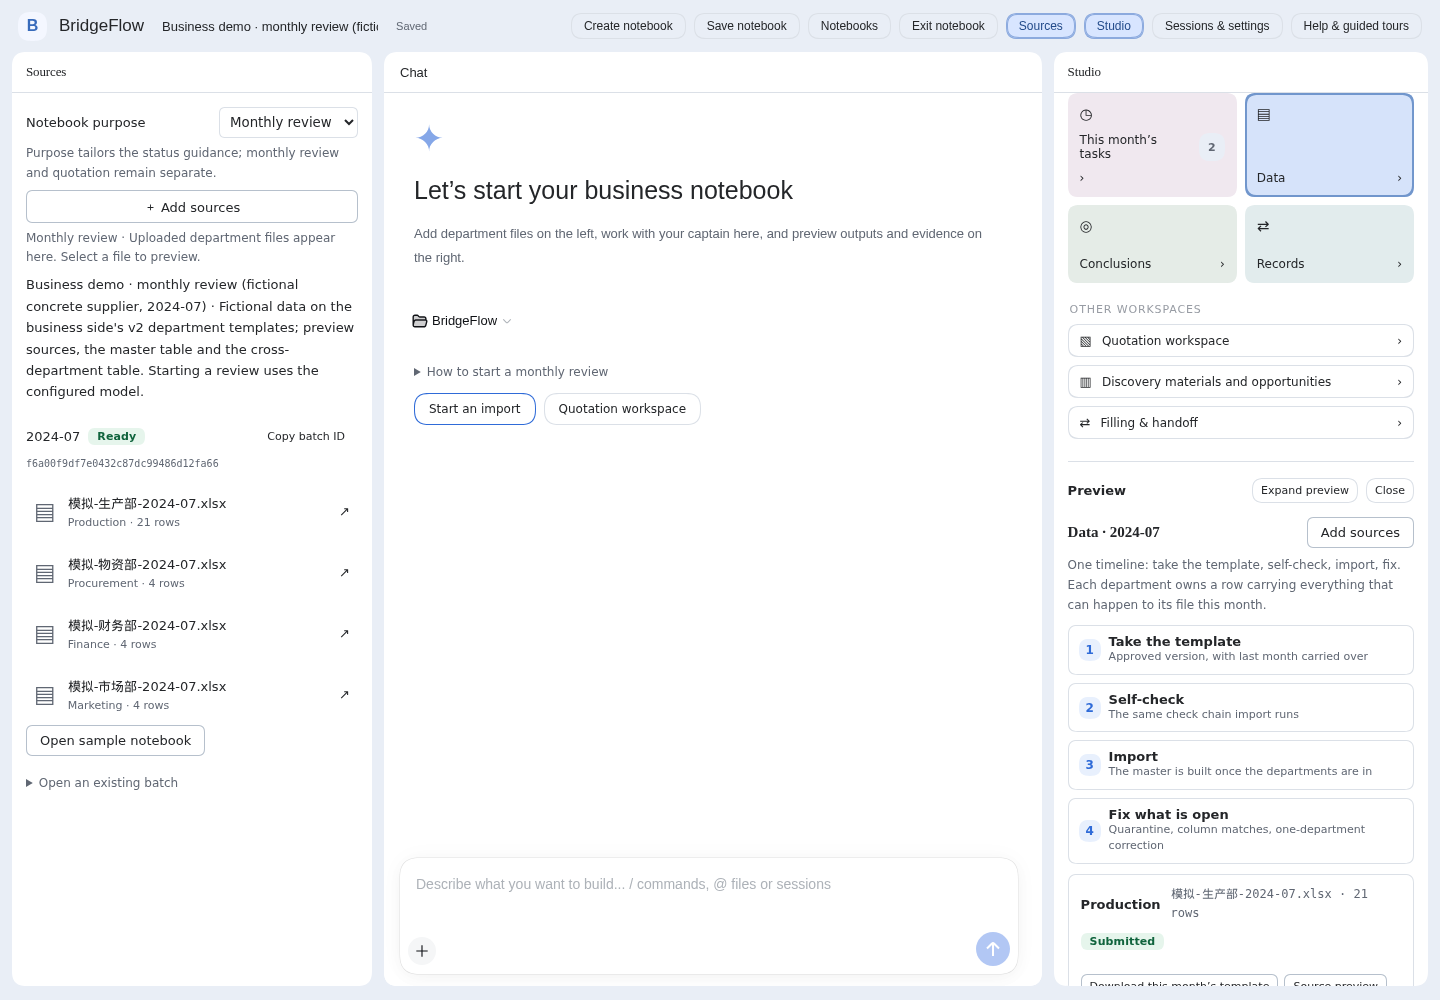
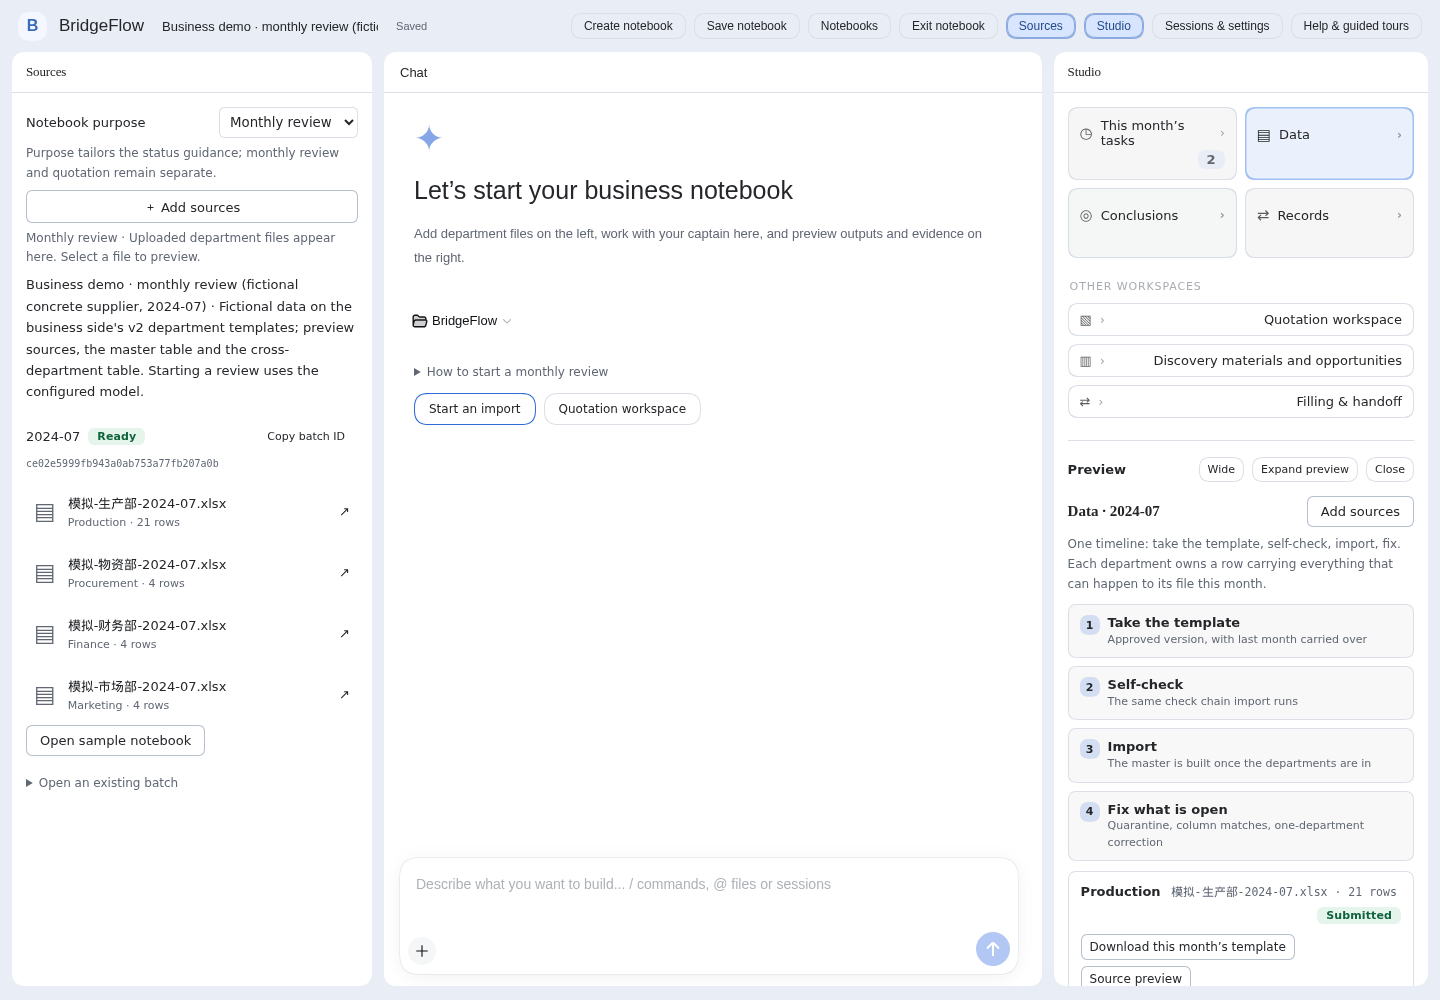
把右栏那一屏做得能看：统一磁贴、补上漏掉的文案、加「宽屏」 (#226)
截图上暴露的问题逐条改：

- 「出处缺失」那一行直接把翻译键 item_missing_provenance 打在界面上，
  「预警处置」同样缺键——补上，并把质量清单的第一行改用与收件箱同一个
  说法（跨部门不一致），免得同一件事两种叫法。
- 四个磁贴原先是五种不同色块，像贴纸墙，而且「›」被挤到第二行。现在统一
  成一种语言：图标与箭头一行、名称一行、计数徽标在右；颜色只用来标「哪
  个开着」。「其他工作区」三行改为安静的单行，且文字左对齐（之前被 grid
  推到了右边缘）。
- 数据页：步骤条留出行高，部门行的文件名不再被按钮挤成两个字（动作换到
  自己那一行），补传的 details 去掉原生三角，质量清单的计数为 0 时压暗、
  不为 0 才是红的——零不是新闻。
- 「complete rows : 4」英文读反了，改成计数在前。

另外：这些页面是按工作宽度画的，而工作室栏只有 300–460px。预览头部加了
「宽屏」开关，打开后该页在全宽面板里显示并记住选择，关掉回到侧栏；同一
时刻只渲染一份，侧栏里留一句「本页正在全宽面板中显示」。

Claude-Session: https://claude.ai/code/session_019nMh6Q3JT7ofAVvvXs2rTQ

diff --git a/plugins/src/client/shell-style.ts b/plugins/src/client/shell-style.ts
@@ -96,19 +96,30 @@ body[data-bf-notebook] [data-slot="root"] > [data-details-collapsed] > div:has(>
 .bf-existing form { display: flex; flex-wrap: wrap; gap: 6px; margin-top: 10px }
 .bf-existing input { min-width: 0; width: 100%; background: transparent; color: inherit; border: 1px solid var(--bf-shell-border); border-radius: 8px; padding: 8px }
 .bf-studio-tools { display: grid; grid-template-columns: repeat(2, minmax(0, 1fr)); gap: 8px }
-.bf-studio-tools button { display: grid; grid-template-columns: 1fr auto; text-align: left; gap: 10px; align-content: space-between; min-height: 78px; border: 0; border-radius: 12px; padding: 12px; font-size: 12px }
-.bf-studio-tools button > span:first-child { grid-column: 1 / -1; font-size: 15px }
-.bf-studio-tools [data-tone=blue] { background: color-mix(in srgb, #859feb 20%, var(--bf-shell-pane)) }
-.bf-studio-tools [data-tone=gold] { background: color-mix(in srgb, #c4b66b 20%, var(--bf-shell-pane)) }
-.bf-studio-tools [data-tone=green] { background: color-mix(in srgb, #809f83 20%, var(--bf-shell-pane)) }
-.bf-studio-tools [data-tone=pink] { background: color-mix(in srgb, #b58cae 20%, var(--bf-shell-pane)) }
-.bf-studio-tools [data-tone=teal] { background: color-mix(in srgb, #6f9fa6 20%, var(--bf-shell-pane)) }
-/* Four destinations carry the work. The other workspaces are reachable, not competing: one
-   row each, quiet, under a label that spans the grid. */
-.bf-studio-tools .bf-studio-group { grid-column: 1 / -1; margin: 12px 2px 0; font-size: 11px; letter-spacing: .08em; text-transform: uppercase; opacity: .65 }
-.bf-studio-tools button[data-secondary=true] { grid-column: 1 / -1; min-height: 0; grid-template-columns: auto 1fr auto; align-items: center; padding: 9px 12px; background: transparent; box-shadow: inset 0 0 0 1px var(--bf-shell-border) }
-.bf-studio-tools button[data-secondary=true] > span:first-child { grid-column: auto; font-size: 13px }
-.bf-inline-preview { margin-top: 4px }
+/* Four destinations, one visual language: an icon line, a name, and the count that matters.
+   Five different hues made the pane look like a sticker sheet and said nothing; the tone now
+   only marks which one is open. */
+.bf-studio-tools button {
+  display: grid; grid-template-columns: auto 1fr auto; grid-template-rows: auto auto;
+  gap: 2px 8px; align-items: center; text-align: left; min-height: 70px;
+  border: 0; box-shadow: inset 0 0 0 1px var(--bf-shell-border);
+  border-radius: 12px; padding: 11px 12px; font-size: 13px;
+  background: color-mix(in srgb, var(--bf-shell-text) 4%, transparent);
+}
+.bf-studio-tools button:hover { background: color-mix(in srgb, var(--bf-shell-text) 9%, transparent) }
+.bf-studio-tools button > span:first-child { grid-row: 1; font-size: 15px; opacity: .75 }
+.bf-studio-tools button > span:nth-child(2) { grid-row: 2; grid-column: 1 / -1; font-size: 13px; font-weight: 600 }
+/* The chevron sits on the icon line, so a long name can never push it onto its own row. */
+.bf-studio-tools button > span:last-child { grid-row: 1; grid-column: 3; opacity: .45; font-size: 12px }
+.bf-studio-tools button .bf-badge { grid-row: 1; grid-column: 2; justify-self: end; margin: 0 }
+.bf-studio-tools .bf-studio-group { grid-column: 1 / -1; margin: 14px 2px 2px; font-size: 11px; letter-spacing: .08em; text-transform: uppercase; opacity: .55 }
+.bf-studio-tools button[data-secondary=true] {
+  grid-column: 1 / -1; grid-template-columns: auto 1fr auto; grid-template-rows: auto;
+  min-height: 0; padding: 9px 12px; background: transparent;
+}
+.bf-studio-tools button[data-secondary=true] > span:first-child { grid-row: 1; font-size: 13px }
+.bf-studio-tools button[data-secondary=true] > span:nth-child(2) { grid-row: 1; grid-column: 2; justify-self: start; font-weight: 400 }
+.bf-studio-tools button[data-secondary=true] > span:last-child { grid-row: 1 }
 .bf-shell-pane button:disabled { opacity: .5; cursor: default }
 .bf-artifacts { border-top: 1px solid var(--bf-shell-border); margin-top: 18px; padding-top: 16px }
 .bf-artifacts > header, .bf-inline-preview > header { display: flex; align-items: center; gap: 8px; margin-bottom: 14px }
@@ -140,7 +151,11 @@ body[data-bf-notebook] .bf-drawer { top: var(--bf-shell-top-height); right: 12px
 .bf-shell-top button:focus-visible, .bf-shell-pane button:focus-visible { outline: 2px solid #7ea8ef; outline-offset: 3px }
 .bf-shell-top button[aria-expanded=true], .bf-shell-top button[aria-pressed=true] { background: #d8e5ff; color: #244c8b; border-color: #8caade; box-shadow: inset 0 0 0 1px #8caade }
 body[data-ds-dark-theme] .bf-shell-top button[aria-expanded=true] { background: #334b70; color: #e2edff; border-color: #7d9dcd }
-.bf-shell-pane .bf-studio-tools button[aria-pressed=true] { box-shadow: inset 0 0 0 2px #6f94cb; background: color-mix(in srgb, #7ea8ef 32%, var(--bf-shell-pane)) }
+.bf-shell-pane .bf-studio-tools button[aria-pressed=true] {
+  box-shadow: inset 0 0 0 1.5px color-mix(in srgb, #7ea8ef 70%, transparent);
+  background: color-mix(in srgb, #7ea8ef 16%, transparent);
+}
+.bf-shell-pane .bf-studio-tools button[aria-pressed=true] > span:first-child { opacity: 1 }
 .bf-shell-top .bf-notebook-title { width: clamp(120px, 15vw, 260px); min-width: 70px; background: transparent; border: 1px solid transparent; border-radius: 6px; color: inherit; padding: 5px; font: inherit; font-size: 13px }
 .bf-notebook-title:hover, .bf-notebook-title:focus { border-color: var(--bf-shell-border) }
 .bf-save-state { font-size: 11px; white-space: nowrap; color: var(--bf-shell-muted) }

diff --git a/plugins/src/client/shell.tsx b/plugins/src/client/shell.tsx
@@ -44,6 +44,17 @@ function Shell({ ctx }: { ctx: Context }) {
   const [panel, setPanel] = useState(''), [copied, setCopied] = useState(false)
   const navigation = useNativeSidebar(ctx), notebook = useNotebook(ctx, selected, batchId)
   const [expanded, setExpanded] = useState(false)
+  // These pages were drawn at a working width; the studio column is 300–460px. A reader who
+  // says "wide" once should not have to say it again, so the choice is remembered — and it
+  // stays off by default, because the expanded panel covers the captain's conversation.
+  const [wide, setWide] = useState(() => {
+    try { return localStorage.getItem('bridgeflow.wide-reading') === 'on' } catch { return false }
+  })
+  function setWideReading(value: boolean) {
+    setWide(value)
+    try { localStorage.setItem('bridgeflow.wide-reading', value ? 'on' : 'off') } catch { /* private window */ }
+    if (value) { setExpanded(true); viewer.current?.showModal() } else { viewer.current?.close() }
+  }
   const [hiddenSources, setHiddenSources] = useState(false), [hiddenStudio, setHiddenStudio] = useState(false)
   const viewport = useSyncExternalStore(viewportSubscribe, () => window.innerWidth)
   useEffect(() => {
@@ -99,7 +110,11 @@ function Shell({ ctx }: { ctx: Context }) {
     return () => controller.abort()
   }, [batchId, selected.source, selected.report, selected.view, offset, revision])
   const viewing = ['discovery', 'quotation', 'handoff', 'integration', 'brief', 'source', 'artifact', 'tasks', 'data', 'records'].includes(selected.view ?? '')
-  useEffect(() => { if (viewing) { setPanel('studio'); setHiddenStudio(false); ctx.layout.closeDetails() } else viewer.current?.close() }, [viewing, selected.source, selected.report, selected.view, ctx])
+  useEffect(() => {
+    if (!viewing) { viewer.current?.close(); return }
+    setPanel('studio'); setHiddenStudio(false); ctx.layout.closeDetails()
+    if (wide && !viewer.current?.open) { setExpanded(true); viewer.current?.showModal() }
+  }, [viewing, selected.source, selected.report, selected.view, ctx, wide])
   const openSource = (source: Source) => { setError(''); navigate({ batch: batchId, view: 'source', source: source.id }) }
   const closePreview = () => { viewer.current?.close(); navigate({ ...(batchId ? { batch: batchId } : {}), kind:notebook.kind }) }
   const previewContent = selected.view === 'tasks' && batchId
@@ -177,7 +192,13 @@ function Shell({ ctx }: { ctx: Context }) {
         </div>
         {!summary && <p className="bf-hint">{t('studioStartHelp')}</p>}
         {(error || notebook.error) && <p role="alert" className="bf-error">{error || notebook.error}{notebook.error && <button onClick={notebook.retry}>{t('refresh')}</button>}</p>}
-        {viewing && <section className="bf-inline-preview" aria-label={t('preview')}><header><h3>{t('preview')}</h3><button onClick={() => { setExpanded(true); viewer.current?.showModal() }}>{t('expandPreview')}</button><button onClick={closePreview}>{t('close')}</button></header>{previewContent}</section>}
+        {viewing && <section className="bf-inline-preview" aria-label={t('preview')}><header><h3>{t('preview')}</h3>
+          <button aria-pressed={wide} title={t('wideReadingHelp')} onClick={() => setWideReading(!wide)}>{t('wideReading')}</button>
+          <button onClick={() => { setExpanded(true); viewer.current?.showModal() }}>{t('expandPreview')}</button>
+          <button onClick={closePreview}>{t('close')}</button></header>
+          {expanded && viewer.current?.open
+            ? <p className="bf-hint" role="status">{t('shownWide')} <button onClick={() => viewer.current?.close()}>{t('backToColumn')}</button></p>
+            : previewContent}</section>}
         <section data-tour-id="artifacts" className="bf-artifacts" aria-label={t('artifacts')}><header><h3>{t('artifacts')} <span className="bf-badge">{artifactTotal + (summary?.master_rows ? 1 : 0)}</span></h3>{artifacts.length > 0 && <button aria-label={t('feishuUpload')} title={t('feishuUpload')} onClick={() => { setFeishuNotice(''); feishuUploader.current?.showModal() }}>⇪</button>}<button aria-label={t('refreshArtifacts')} onClick={() => setRevision(n => n + 1)}>↻</button></header>
           {feishuNotice && <p className="bf-hint" role="status">{feishuNotice}</p>}
           {!!summary?.master_rows && <button className="bf-artifact" data-kind="master" onClick={() => navigate({ batch: batchId, view: 'master' })}><span aria-hidden="true">▦</span><span><strong>{summary.period} · {t('master')}</strong><small>{summary.master_rows} {t('rows')}</small><Chip status={summary.status}/></span><span aria-hidden="true">↗</span></button>}

diff --git a/plugins/src/client/style.ts b/plugins/src/client/style.ts
@@ -507,33 +507,51 @@ body[data-ds-dark-theme] .bf-panel::backdrop { background: #04080d9e }
   display: grid; grid-template-columns: repeat(auto-fit, minmax(170px, 1fr)); gap: 8px;
 }
 .bf-data-steps li {
-  display: flex; gap: 8px; align-items: center;
-  border: 1px solid var(--bf-line); border-radius: var(--bf-radius); padding: 8px 10px;
+  display: flex; gap: 8px; align-items: flex-start;
+  border: 1px solid var(--bf-line); border-radius: var(--bf-radius); padding: 9px 11px;
+  background: color-mix(in srgb, var(--bf-text) 3%, transparent);
 }
 .bf-data-steps li > span:first-child {
-  flex: 0 0 auto; width: 22px; height: 22px; border-radius: 999px;
-  background: var(--bf-accent-soft); color: var(--bf-accent);
-  display: flex; align-items: center; justify-content: center; font-size: 12px; font-weight: 700;
+  flex: 0 0 auto; width: 20px; height: 20px; border-radius: 999px; margin-top: 1px;
+  background: color-mix(in srgb, var(--bf-accent) 18%, transparent); color: var(--bf-text);
+  display: flex; align-items: center; justify-content: center; font-size: 11px; font-weight: 700;
 }
-.bf-data-steps strong { display: block; font-size: 13px }
+.bf-data-steps strong { display: block; font-size: 13px; line-height: 1.35 }
 .bf-data-steps small { display: block; font-size: 11px; color: var(--bf-muted); line-height: 1.5 }
 
 .bf-data-split { display: flex; flex-wrap: wrap; gap: 16px; align-items: flex-start }
 .bf-data-files { flex: 3 1 380px; min-width: 0 }
 .bf-data-quality { flex: 1 1 260px; min-width: 0 }
 .bf-data-files { display: grid; gap: 10px; align-content: start }
-.bf-data-row { border: 1px solid var(--bf-line); border-radius: var(--bf-radius); padding: 10px 12px }
+.bf-data-row { border: 1px solid var(--bf-line); border-radius: var(--bf-radius); padding: 11px 12px }
+.bf-data-row + .bf-data-row { margin-top: 0 }
 .bf-data-row[data-state=missing] { border-style: dashed }
-.bf-data-row-head { display: flex; gap: 10px; align-items: center; flex-wrap: wrap }
-.bf-data-row-head > strong { min-width: 5em }
-.bf-data-row-head .bf-hint { flex: 1 1 12em; min-width: 0 }
-.bf-data-row .bf-resupply { margin-top: 8px }
+.bf-data-row-head { display: flex; gap: 6px 10px; align-items: baseline; flex-wrap: wrap }
+.bf-data-row-head > strong { flex: 0 0 auto; font-size: 13px }
+.bf-data-row-head .bf-hint { flex: 1 1 12em; min-width: 0; font-size: 11.5px }
+.bf-data-row-head .bf-chip { order: 2; margin-left: auto }
+/* The row's actions sit on their own line when the meta is long, instead of squeezing the
+   filename into two characters. */
+.bf-data-row-head .bf-actions { order: 3; flex: 1 1 100%; margin: 4px 0 0; gap: 6px }
+.bf-data-row-head .bf-actions button { font-size: 12px; padding: 5px 10px }
+.bf-data-row .bf-resupply { margin-top: 8px; border-top: 1px dashed var(--bf-line); padding-top: 8px }
+.bf-data-row .bf-resupply > summary { font-size: 12px; color: var(--bf-muted); cursor: pointer; list-style: none }
+.bf-data-row .bf-resupply > summary::-webkit-details-marker { display: none }
+.bf-data-row .bf-resupply > summary::before { content: '＋ '; opacity: .7 }
+.bf-data-row .bf-resupply[open] > summary::before { content: '－ ' }
 .bf-data-row .bf-template-download { display: inline-flex; align-items: center; gap: 8px }
 
 .bf-data-quality ul { list-style: none; margin: 8px 0; padding: 0; display: grid; gap: 6px }
+.bf-data-quality { border: 1px solid var(--bf-line); border-radius: var(--bf-radius); padding: 12px 14px }
+.bf-data-quality h4 { margin: 0 0 4px; font-size: 13px }
 .bf-data-quality li > button {
   width: 100%; display: flex; justify-content: space-between; align-items: center; gap: 10px;
+  background: transparent; box-shadow: inset 0 0 0 1px var(--bf-line); font-size: 12.5px;
 }
+.bf-data-quality li > button:hover { background: color-mix(in srgb, var(--bf-text) 6%, transparent) }
+/* A zero is not news: the rows that still hold something are the ones that should catch the eye. */
+.bf-data-quality li > button .bf-badge { opacity: .45 }
+.bf-data-quality li > button .bf-badge[data-open=true] { opacity: 1; background: var(--bf-danger-bg); color: var(--bf-danger) }
 
 .bf-records-list { list-style: none; margin: 6px 0 14px; padding: 0; display: grid; gap: 8px }
 .bf-records-list li {

diff --git a/plugins/src/client/data.tsx b/plugins/src/client/data.tsx
@@ -82,22 +82,22 @@ export function DataView({ batchId, summary, sources, onImport, onRefresh }: {
         <h4>{t('batchQuality')}</h4>
         <ul>
           <li><button onClick={() => navigate({ batch: batchId, view: 'integration' })}>
-            <span>{t('masterOpenQuestions')}</span><span className="bf-badge">{masterIssues}</span></button></li>
+            <span>{t('item_master_disagreement')}</span><span className="bf-badge" data-open={masterIssues > 0}>{masterIssues}</span></button></li>
           <li><button onClick={() => navigate({ batch: batchId, view: 'quarantine' })}>
-            <span>{t('quarantine')}</span><span className="bf-badge">{kinds.quarantined_row ?? 0}</span></button></li>
+            <span>{t('quarantine')}</span><span className="bf-badge" data-open={(kinds.quarantined_row ?? 0) > 0}>{kinds.quarantined_row ?? 0}</span></button></li>
           <li><button onClick={() => navigate({ batch: batchId, view: 'columns' })}>
-            <span>{t('pendingColumnQuestions')}</span><span className="bf-badge">{kinds.column_question ?? 0}</span></button></li>
+            <span>{t('pendingColumnQuestions')}</span><span className="bf-badge" data-open={(kinds.column_question ?? 0) > 0}>{kinds.column_question ?? 0}</span></button></li>
           <li><button onClick={() => navigate({ batch: batchId, view: 'integration' })}>
-            <span>{t('item_missing_provenance')}</span><span className="bf-badge">{kinds.missing_provenance ?? 0}</span></button></li>
+            <span>{t('item_missing_provenance')}</span><span className="bf-badge" data-open={(kinds.missing_provenance ?? 0) > 0}>{kinds.missing_provenance ?? 0}</span></button></li>
         </ul>
         <div className="bf-actions">
           <button className="bf-primary" data-tour-id="master-open" disabled={!summary.master_rows}
             onClick={() => { navigate({ batch: batchId, view: 'integration' }); window.dispatchEvent(new Event('bridgeflow:master-opened')) }}>
             {t('integrationMaster')}</button>
-          <button onClick={() => navigate({ batch: batchId, view: 'master' })}>{t('master')}</button>
+          <button className="bf-quiet" onClick={() => navigate({ batch: batchId, view: 'master' })}>{t('master')}</button>
         </div>
         <p className="bf-hint">{t('batchQualityHint')}</p>
-        <p className="bf-hint">{t('masterCompleteRows')}：{summary.master_rows} · {t('dictionaryInForce')} <code className="bf-mono">{summary.dictionary}</code></p>
+        <p className="bf-hint">{summary.master_rows} {t('masterCompleteRows')} · {t('dictionaryInForce')} <code className="bf-mono">{summary.dictionary}</code></p>
       </aside>
     </div>
   </section>

diff --git a/plugins/src/client/ui.ts b/plugins/src/client/ui.ts
@@ -115,6 +115,11 @@ const labels = {
     'One timeline: take the template, self-check, import, fix. Each department owns a row carrying everything that can happen to its file this month.'],
   records: ['记录', 'Records'],
   batchTables: ['批次数据表', 'Batch tables'],
+  wideReading: ['宽屏', 'Wide'],
+  shownWide: ['本页正在全宽面板中显示。', 'This page is showing in the full-width panel.'],
+  backToColumn: ['放回侧栏', 'Back to the column'],
+  wideReadingHelp: ['这些页面是按工作宽度画的；打开后它们在全宽面板里显示，并记住你的选择。关闭面板即回到侧栏。',
+    'These pages are drawn at a working width; turning this on opens them in the full-width panel and remembers the choice. Closing the panel returns them to the column.'],
   agentRuns: ['代理运行', 'Agent runs'],
   agentRunsHelp: ['一次运行 = 一次模型请求及其整棵调用树：队长那一步与各部门子代理的调用带同一个根，所以它们画在同一张图上。泳道是代理，标记是工具调用，拒绝按形状与文字标出，宽度按耗时占比——「哪一步花掉了时间」才是读者真正的问题。',
     'A run is one model-requested call and its whole tree: the captain\u2019s step and each department subagent\u2019s calls share a root, so they belong on one picture. The lane is the agent, the mark is a tool call, a refusal is marked by shape and word, and width is its share of the time — because “which step took it” is the real question.'],
@@ -197,6 +202,8 @@ const labels = {
   item_quarantined_row: ['隔离行待处置', 'Quarantined row'],
   item_column_question: ['上传列待匹配', 'Column to match'],
   item_stale_report: ['研判基于已更正的数据', 'Review rests on corrected data'],
+  item_missing_provenance: ['出处缺失', 'Provenance missing'],
+  risk_dispositions: ['预警处置', 'Risk dispositions'],
   resupply: ['补传单个部门', 'Replace one department\u2019s file'],
   resupplyHelp: ['只有一个部门的文件需要更正时，不必四个部门重传：其余部门沿用本批次的原件与清洗结果，只有补传部门重新导入，生成新批次；本批次及其报告保持不变。',
     'When only one department\u2019s file is wrong, the others do not upload again: they keep this batch\u2019s originals and cleaned tables, only the replaced department is re-imported, and a new batch is derived. This batch and its report stay as they are.'],

diff --git a/docs/15-plugin-design.md b/docs/15-plugin-design.md
@@ -162,6 +162,11 @@ root
 **打开的页面排在产物之前**：第一轮把它放在工作室栏的产物列表之后，于是点开「数据」要先滚过一屏工具和产物才看得到内容——
 截图上一眼就看出来了。现在开着的去处紧跟在四个磁贴下面，「其他工作区」降为安静的单行。
 
+**设计稿画的是整页应用，产品跑在 dsh web 的三栏外壳里**——这是刻意的（不自建前端），所以画板上的顶栏批次切换器、
+整块中央工作区、每页右侧的本页导航都不会落地。能落地的是信息架构与每一页的内部结构，这部分已经全部实现。
+为了让这些按工作宽度画的页面真的拿到宽度，预览头部加了**宽屏**开关：打开后该页在全宽面板（`min(1180px, 94vw)`）里显示，
+选择记在 localStorage，下次打开别的去处也直接是宽屏；关掉即回到侧栏。同一时刻只渲染一份，侧栏里留一句「本页正在全宽面板中显示」。
+
 **窄栏下用换行，不用挤**：运行泳道与决策明细原先是固定列宽网格，在 370px 的工作室栏里会把标签压成「r」「ba」这种
 读不出来的碎片。改为按内容换行；泳道区保留最小宽度并允许横向滚动——宁可让人滑一下，也不给一排看不懂的色块。
 
